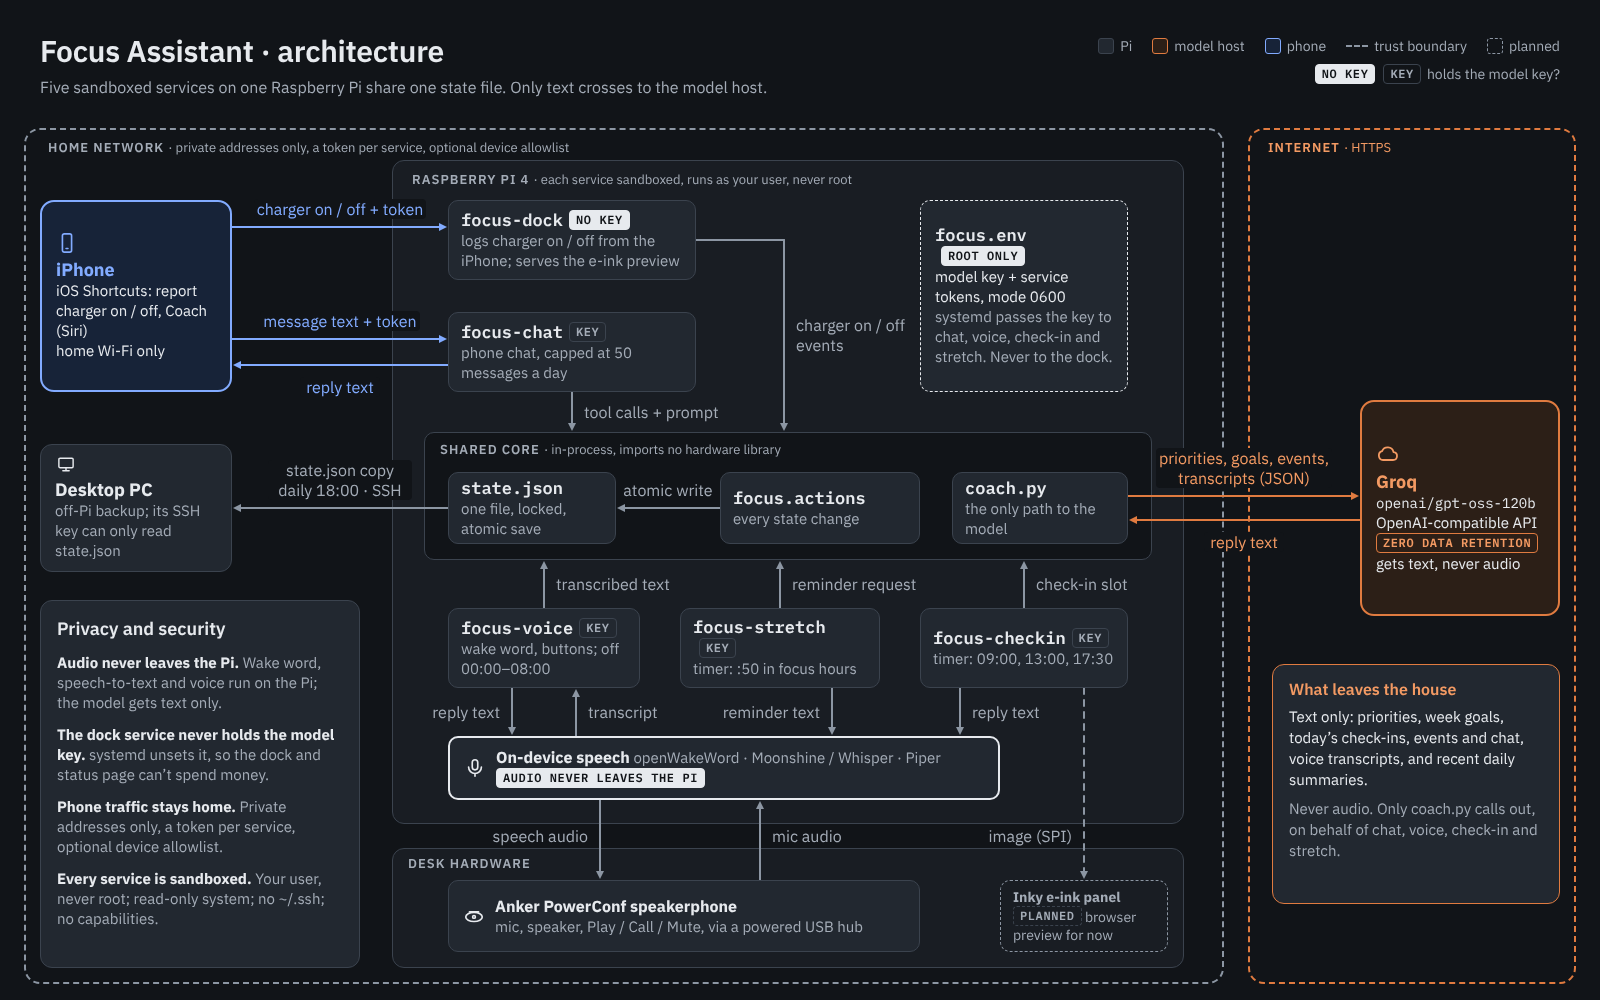
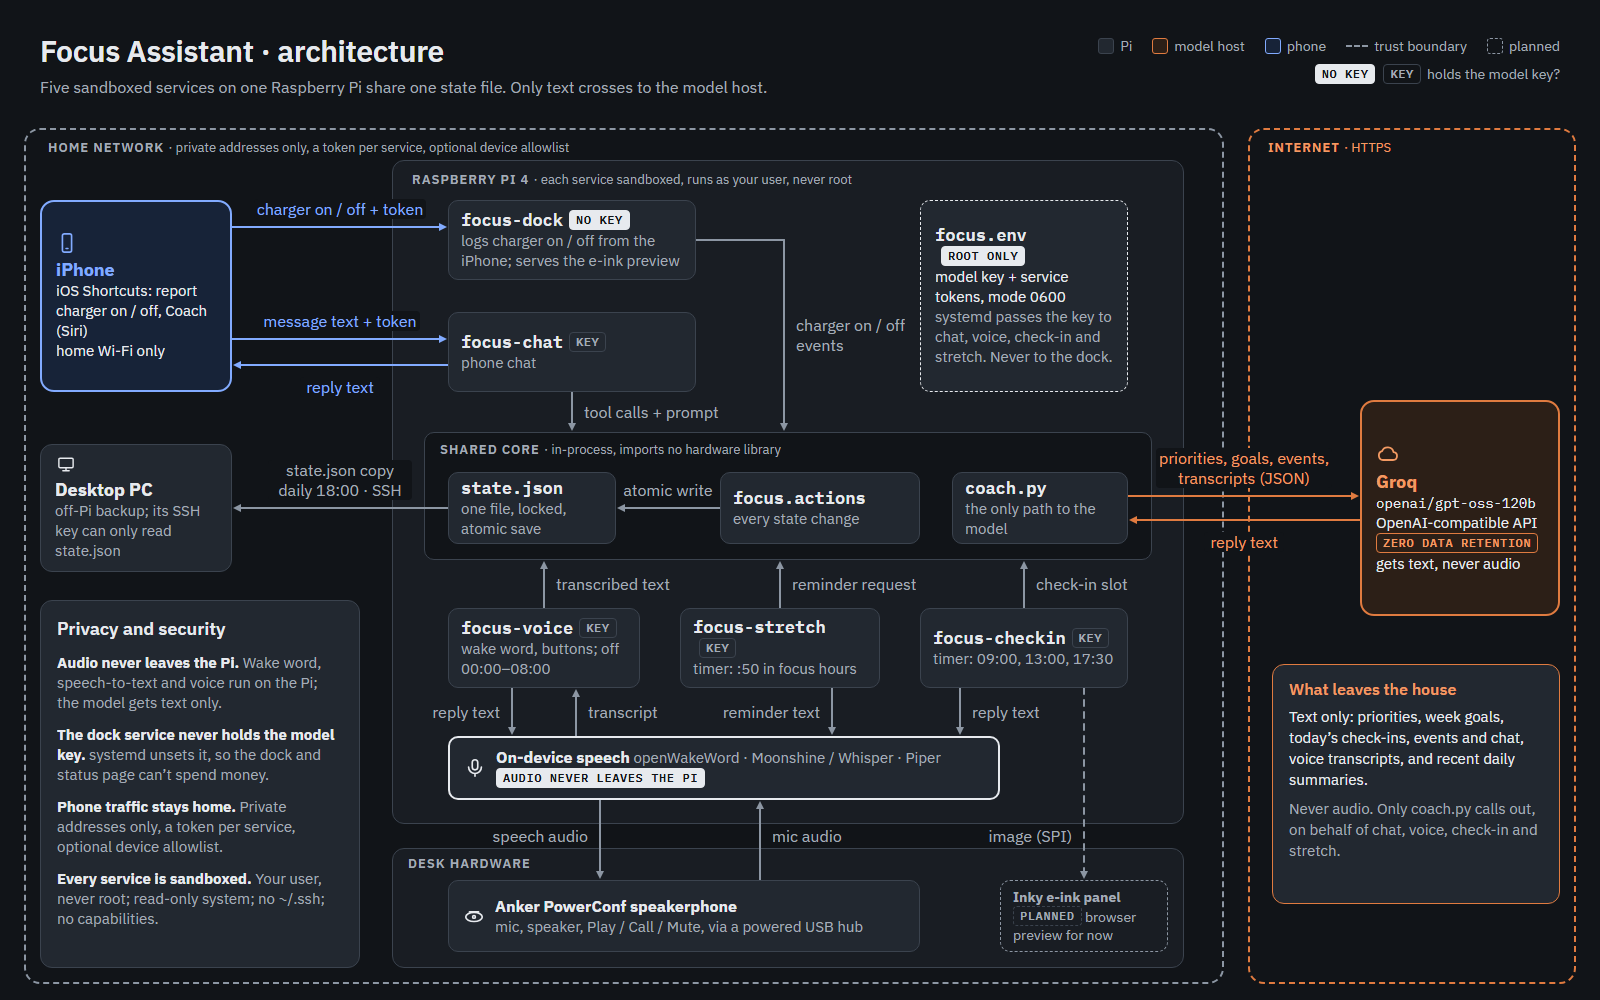
Remove the daily chat limit
Chat and voice (talk mode especially) no longer stop at 50 messages a day.
The chat token protects the service, each message is still at most six
model calls, and the docs point to a spend limit at the model host as the
backstop. FOCUS_CHAT_DAILY_LIMIT and the chat_attempts counter are gone;
old state files with the counter still load.

diff --git a/docs/diagrams/architecture.html b/docs/diagrams/architecture.html
@@ -71,7 +71,7 @@ a{color:#1c5bc9}a:hover{color:#123f8f}
 <div style="position: absolute; left: 40px; top: 444px; width: 192px; height: 128px; box-sizing: border-box; display: flex; flex-direction: column; align-items: flex-start; justify-content: center; gap: 6px; padding: 10px 14px; background: var(--card); border: 1.5px solid var(--border); border-radius: 12px; font-size: 15px; line-height: 20px"><svg width="22" height="22" viewBox="0 0 24 24" fill="none" stroke="currentColor" stroke-width="1.8" stroke-linecap="round" stroke-linejoin="round" aria-hidden="true"><rect x="3" y="4" width="18" height="12" rx="1.5"></rect><path d="M8 20h8M12 16v4"></path></svg><span><b style="font-size: 18px">Desktop PC</b><br><span class="s">off-Pi backup; its SSH key can only read state.json</span></span></div>
 
 <div style="position: absolute; left: 448px; top: 200px; width: 248px; height: 80px; box-sizing: border-box; display: flex; align-items: center; padding: 8px 12px; background: var(--card); border: 1.5px solid var(--border); border-radius: 10px; font-size: 15px; line-height: 20px"><span><b class="t">focus-dock</b><span class="kb no">NO KEY</span><br><span class="s">logs charger on / off from the iPhone; serves the e-ink preview</span></span></div>
-<div style="position: absolute; left: 448px; top: 312px; width: 248px; height: 80px; box-sizing: border-box; display: flex; align-items: center; padding: 8px 12px; background: var(--card); border: 1.5px solid var(--border); border-radius: 10px; font-size: 15px; line-height: 20px"><span><b class="t">focus-chat</b><span class="kb">KEY</span><br><span class="s">phone chat, capped at 50 messages a day</span></span></div>
+<div style="position: absolute; left: 448px; top: 312px; width: 248px; height: 80px; box-sizing: border-box; display: flex; align-items: center; padding: 8px 12px; background: var(--card); border: 1.5px solid var(--border); border-radius: 10px; font-size: 15px; line-height: 20px"><span><b class="t">focus-chat</b><span class="kb">KEY</span><br><span class="s">phone chat</span></span></div>
 <div style="position: absolute; left: 920px; top: 200px; width: 208px; height: 192px; box-sizing: border-box; display: flex; align-items: center; padding: 10px 14px; background: var(--card); border: 1.5px dashed var(--ink); border-radius: 10px; font-size: 15px; line-height: 20px"><span><b class="t">focus.env</b><span class="kb no">ROOT ONLY</span><br>model key + service tokens, mode 0600<br><span class="s">systemd passes the key to chat, voice, check-in and stretch. Never to the dock.</span></span></div>
 
 <div style="position: absolute; left: 448px; top: 472px; width: 168px; height: 72px; box-sizing: border-box; display: flex; align-items: center; padding: 6px 12px; background: var(--card); border: 1.5px solid var(--border); border-radius: 10px; font-size: 15px; line-height: 20px"><span><b class="t">state.json</b><br><span class="s">one file, locked, atomic save</span></span></div>

diff --git a/tests/test_chat.py b/tests/test_chat.py
@@ -191,32 +191,17 @@ def test_runaway_tool_loop_stops(cfg):
         assert s.chat == []
 
 
-def test_daily_limit(cfg):
-    client, _ = scripted(completion("ok"))
-    chat.run(cfg, "one", client=client, daily_limit=1)
-    with pytest.raises(CoachError, match="limit"):
-        chat.run(cfg, "two", client=client, daily_limit=1)
-
-
-def test_failed_messages_count_toward_the_daily_limit(cfg):
+def test_failed_messages_are_not_kept(cfg):
     client = client_for(lambda r: httpx.Response(500, json={"error": {"message": "boom"}}))
     with pytest.raises(CoachError, match="500"):
-        chat.run(cfg, "one", client=client, daily_limit=1)
-    with pytest.raises(CoachError, match="limit"):
-        chat.run(cfg, "two", client=client, daily_limit=1)
+        chat.run(cfg, "one", client=client)
     with st.locked_state(cfg) as s:
-        assert s.chat == [] and s.chat_attempts == 1
+        assert s.chat == []
 
 
-def test_attempts_reset_at_rollover_and_default_from_old_state(cfg):
-    from datetime import date
-    old = st.State.from_dict({"version": st.SCHEMA_VERSION, "date": "2026-10-14",
-                              "chat": [{"at": "x", "user": "hi", "reply": "hey"}]})
-    assert old.chat_attempts == 1  # a state file from before the counter existed
-    with st.locked_state(cfg, today=date(2026, 10, 14)) as s:
-        s.chat_attempts = 7
-    with st.locked_state(cfg, today=date(2026, 10, 15)) as s:
-        assert s.chat_attempts == 0
+def test_state_from_before_the_limit_was_removed_still_loads():
+    old = st.State.from_dict({"version": st.SCHEMA_VERSION, "date": "2026-10-14", "chat_attempts": 7})
+    assert "chat_attempts" not in old.to_dict()
 
 
 def test_chat_clears_at_rollover(cfg):
@@ -232,13 +217,13 @@ def test_chat_clears_at_rollover(cfg):
 def server(cfg):
     calls = []
 
-    def fake_run(_cfg, text, daily_limit, on_text=None):
+    def fake_run(_cfg, text, on_text=None):
         calls.append(text)
         if text == "fail":
             raise CoachError("The coach is offline: can't reach the model provider")
         return f"You said: {text}"
 
-    handler = chat_service.make_handler(cfg, TOKEN, 50, run=fake_run)
+    handler = chat_service.make_handler(cfg, TOKEN, run=fake_run)
     srv = ThreadingHTTPServer(("127.0.0.1", 0), handler)
     threading.Thread(target=srv.serve_forever, daemon=True).start()
     yield f"http://127.0.0.1:{srv.server_address[1]}", calls

diff --git a/focus/inputs/chat.py b/focus/inputs/chat.py
@@ -32,8 +32,7 @@ DEFAULT_PORT = 8766
 MAX_BODY = 8192
 
 
-def make_handler(cfg: Config, token: str, daily_limit: int,
-                 run=chat.run) -> type[BaseHTTPRequestHandler]:
+def make_handler(cfg: Config, token: str, run=chat.run) -> type[BaseHTTPRequestHandler]:
     one_at_a_time = threading.Lock()  # keeps the day's chat history in order
 
     class Handler(BaseHTTPRequestHandler):
@@ -68,7 +67,7 @@ def make_handler(cfg: Config, token: str, daily_limit: int,
             log.info("Chat: %s", config.words(text[:80]))
             with one_at_a_time:
                 try:
-                    reply = run(cfg, text, daily_limit=daily_limit)
+                    reply = run(cfg, text)
                 except CoachError as exc:
                     log.warning("Chat failed: %s", exc)
                     # 200 so the Shortcut shows the reason instead of a generic error.
@@ -90,7 +89,7 @@ def main() -> int:
     cfg = config.load()
     # Marking something done rewrites the check-in on the screen to match.
     run = functools.partial(chat.run, on_done_change=checkin.Refresher(cfg))
-    handler = make_handler(cfg, token, int(os.environ.get("FOCUS_CHAT_DAILY_LIMIT", "50")), run=run)
+    handler = make_handler(cfg, token, run=run)
     _web.serve(handler, os.environ.get("FOCUS_CHAT_HOST", "0.0.0.0"),
                int(os.environ.get("FOCUS_CHAT_PORT", DEFAULT_PORT)))
     return 0

diff --git a/focus/state.py b/focus/state.py
@@ -83,8 +83,6 @@ class State:
     checkins: list[dict] = field(default_factory=list)
     events: list[dict] = field(default_factory=list)
     chat: list[dict] = field(default_factory=list)
-    # Every chat or voice message today, answered or not: the daily cost cap.
-    chat_attempts: int = 0
     history: list[dict] = field(default_factory=list)
     # Check-ins and stretch reminders wait until then (focus.pause). Unlike
     # the rest of the day, it survives rollover: a pause can last for days.
@@ -173,7 +171,6 @@ class State:
             checkins=data.get("checkins", []),
             events=data.get("events", []),
             chat=data.get("chat", []),
-            chat_attempts=data.get("chat_attempts", len(data.get("chat", []))),
             history=data.get("history", []),
             paused_until=data.get("paused_until"),
             goals=data.get("goals", []),
@@ -274,7 +271,6 @@ def roll_over(state: State, today: date, history_days: int) -> bool:
     state.checkins = []
     state.events = []
     state.chat = []
-    state.chat_attempts = 0
     state.date = today.isoformat()
     return True
 

diff --git a/focus/chat.py b/focus/chat.py
@@ -260,7 +260,7 @@ def _run_tool(cfg: Config, name: str, raw_args: str) -> tuple[str, bool]:
 
 
 def run(cfg: Config, message: str, client: openai.OpenAI | None = None,
-        daily_limit: int = 50, on_text: Callable[[str], None] | None = None,
+        on_text: Callable[[str], None] | None = None,
         voice: bool = False, on_done_change: Callable[[], None] | None = None,
         talk: bool = False) -> str:
     """Answer one message. `on_text` receives the reply as it streams in;
@@ -273,11 +273,6 @@ def run(cfg: Config, message: str, client: openai.OpenAI | None = None,
 
     # Snapshot under the lock; never hold it during a model call.
     with st.locked_state(cfg) as s:
-        # Count the attempt before any model call: a message that fails still
-        # costs tokens, so failures must not slip past the cap.
-        if s.chat_attempts >= daily_limit:
-            raise CoachError(f"Daily chat limit ({daily_limit}) reached; it resets tomorrow")
-        s.chat_attempts += 1
         payload = coach.build_payload(s, "chat", st.now_iso())
         history = s.chat[-HISTORY_TURNS:]
 

diff --git a/docs/architecture.md b/docs/architecture.md
@@ -98,7 +98,7 @@ focus/
   actions.py      every state change; all inputs call these
   config.py       settings from FOCUS_* environment variables
   coach.py        check-in prompt, payload, and the shared API call
-  chat.py         chat: prompt, tools, tool loop, daily limit
+  chat.py         chat: prompt, tools, tool loop
   checkin.py      one scheduled check-in: snapshot -> coach -> record -> outputs;
                   plus its quiet rewrite (screen only) after something is marked done
   stretch.py      the :50 stretch reminder (coach-written, fixed fallback), :00 back to work
@@ -136,7 +136,7 @@ root only; systemd reads it and passes it to the services that need it.
 | `focus-stretch` | timer: :50 each weekday hour | yes | outbound | sound cards |
 | `focus-back` | timer: :00 each weekday hour, after a reminder | **no** | none | sound cards |
 | `focus-dock` | always (charger reports from the iPhone + the status page, a browser preview of the e-ink display) | **no** | home network only, inbound | none |
-| `focus-chat` | always | yes, capped by a daily limit | home network inbound, API outbound | none |
+| `focus-chat` | always | yes | home network inbound, API outbound | none |
 | `focus-voice` | always, except quiet hours | yes | outbound | sound cards, input devices (read), hidraw (read) |
 
 Two small helper units, `focus-voice-sleep` and `focus-voice-wake`, run as

diff --git a/docs/phone.md b/docs/phone.md
@@ -115,9 +115,9 @@ or two changes from your last week, each tied to a pattern it saw. Today's
 conversation is kept, so follow-ups work, and the next check-in sees it.
 
 Because this service holds the API key, a leaked chat token could spend
-money. `FOCUS_CHAT_DAILY_LIMIT` caps it at 50 messages a day, counting
-failed ones too, and each message is at most six model calls. Set a
-spend limit at your model host, if it offers one, as the final backstop.
+money. There's no daily message limit: each message is at most six model
+calls, and the token is the protection, so keep it to your own phone. Set a
+spend limit at your model host, if it offers one, as the backstop.
 
 **On the Pi:**
 
@@ -137,7 +137,7 @@ curl -s -X POST -H "Authorization: Bearer $TOKEN" -d '{"text": "what should I do
 3. **Show Result** with **Contents of URL**.
 
 "Hey Siri, Coach" then asks what's up, takes your dictation and reads the
-reply aloud. Errors (no network, daily limit) come back as a sentence.
+reply aloud. Errors (no network, say) come back as a sentence.
 `journalctl -u focus-chat -f` shows each message (its length, or the
 words with `FOCUS_LOG_WORDS=1`).
 

diff --git a/README.md b/README.md
@@ -150,8 +150,8 @@ the host's price. Hosted open models are cheap for replies this short: with
 three check-ins a day and a handful of voice commands, usually **well under
 a dollar a month**. You can give chat, voice and stretch reminders a smaller,
 faster model (`FOCUS_CHAT_MODEL`). Set the prices in `focus.env` and
-`focus status` shows the day's cost from the token counts it records; phone
-chat has a daily cap (50 messages by default). If the host can't be reached,
+`focus status` shows the day's cost from the token counts it records; set a
+spend limit at your model host if it offers one. If the host can't be reached,
 check-ins fall back to a fixed nudge built from your priorities.
 
 ## Privacy

diff --git a/docs/voice.md b/docs/voice.md
@@ -97,8 +97,7 @@ Replies grow to two or three sentences, the coach may ask you a question
 back, and the listening window after each reply is 10 seconds
 (`FOCUS_VOICE_TALK_FOLLOWUP`). Say **"that's all"** (or "back to work") to
 end it, or just stop talking: a quiet window ends it too, and the next wake
-word starts short again. Every turn counts toward the same 50-a-day limit
-as chat.
+word starts short again.
 
 Install the voice extras and a speech model:
 

diff --git a/docs/configuration.md b/docs/configuration.md
@@ -79,7 +79,6 @@ The **check-in times** are set in the systemd timer, not here; see
 | Setting | Default | |
 |---|---|---|
 | `FOCUS_CHAT_TOKEN` | (generated) | Token the phone's Coach shortcut sends. |
-| `FOCUS_CHAT_DAILY_LIMIT` | `50` | Chat and voice messages allowed per day, answered or failed: a cost cap. |
 | `FOCUS_CHAT_PORT` | `8766` | Port for chat. |
 | `FOCUS_CHAT_HOST` | `0.0.0.0` | Address to listen on. |
 
